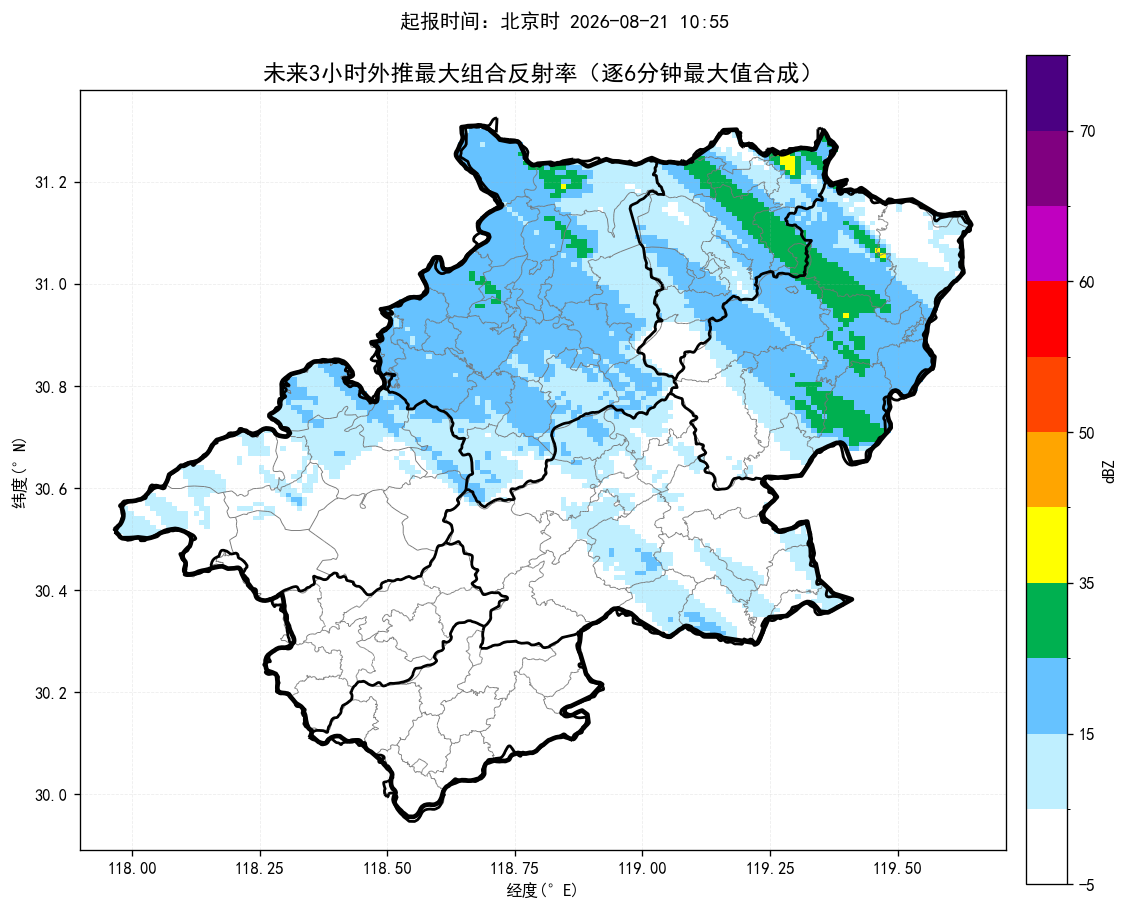
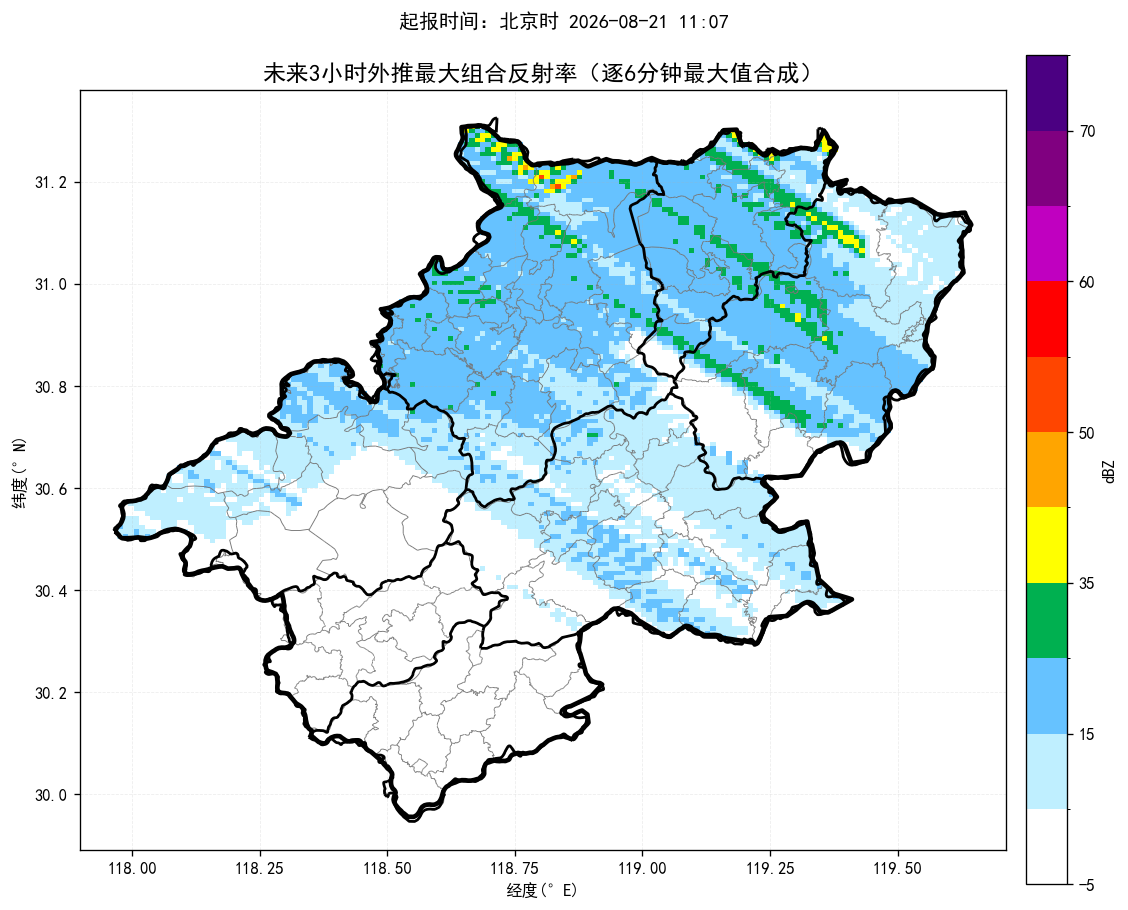
update nowcast products

diff --git a/index.html b/index.html
@@ -14,14 +14,14 @@ img.product{display:block;width:100%;height:auto;margin:10px auto 26px;border:1p
 .footer{font-size:13px;color:#777;text-align:center;margin-top:30px}
 @media(max-width:700px){.sheet{margin:0;padding:18px 15px}.alert-title{font-size:22px}.county-line{font-size:17px}.prob{font-size:18px}}
 </style></head><body><main class="sheet">
-<div class="time">起报时间：北京时 2026-08-21 10:55</div>
+<div class="time">起报时间：北京时 2026-08-21 11:07</div>
 <div class="alert-title">未来一小时降水量超过 20 毫米的乡镇：</div><div class="county-line">无</div>
 <div class="alert-title">未来三小时降水量超过 50 毫米的乡镇：</div><div class="county-line">无</div>
 <div class="alert-title">未来三小时雷暴大风（组合反射率 > 55 dBZ）的乡镇：</div><div class="county-line">无</div>
-<div class="prob">最大降水量概率预估：宣城市范围内未来三小时降水偏小，最大预报约3.3毫米，暂不进行50/80/100毫米概率预估。</div>
-<div class="section-title">未来降水预报图：</div><img class="product auto-refresh-product" data-src="短临降水预报.png" src="短临降水预报.png?v=20260821110151" alt="未来降水预报图">
-<div class="section-title">未来三小时组合反射率图：</div><img class="product auto-refresh-product" data-src="未来3小时组合反射率.png" src="未来3小时组合反射率.png?v=20260821110151" alt="未来三小时组合反射率图">
-<div class="section-title">未来三小时雷暴大风图：</div><img class="product auto-refresh-product" data-src="未来3小时雷暴大风.png" src="未来3小时雷暴大风.png?v=20260821110151" alt="未来三小时雷暴大风图">
+<div class="prob">最大降水量概率预估：宣城市范围内未来三小时降水偏小，最大预报约10.5毫米，暂不进行50/80/100毫米概率预估。</div>
+<div class="section-title">未来降水预报图：</div><img class="product auto-refresh-product" data-src="短临降水预报.png" src="短临降水预报.png?v=20260821111301" alt="未来降水预报图">
+<div class="section-title">未来三小时组合反射率图：</div><img class="product auto-refresh-product" data-src="未来3小时组合反射率.png" src="未来3小时组合反射率.png?v=20260821111301" alt="未来三小时组合反射率图">
+<div class="section-title">未来三小时雷暴大风图：</div><img class="product auto-refresh-product" data-src="未来3小时雷暴大风.png" src="未来3小时雷暴大风.png?v=20260821111301" alt="未来三小时雷暴大风图">
 <div class="footer">三张产品图每 60 秒自动刷新一次；每次请求自动附加新的URL参数以绕过缓存。</div>
 <script>
 (function() {
